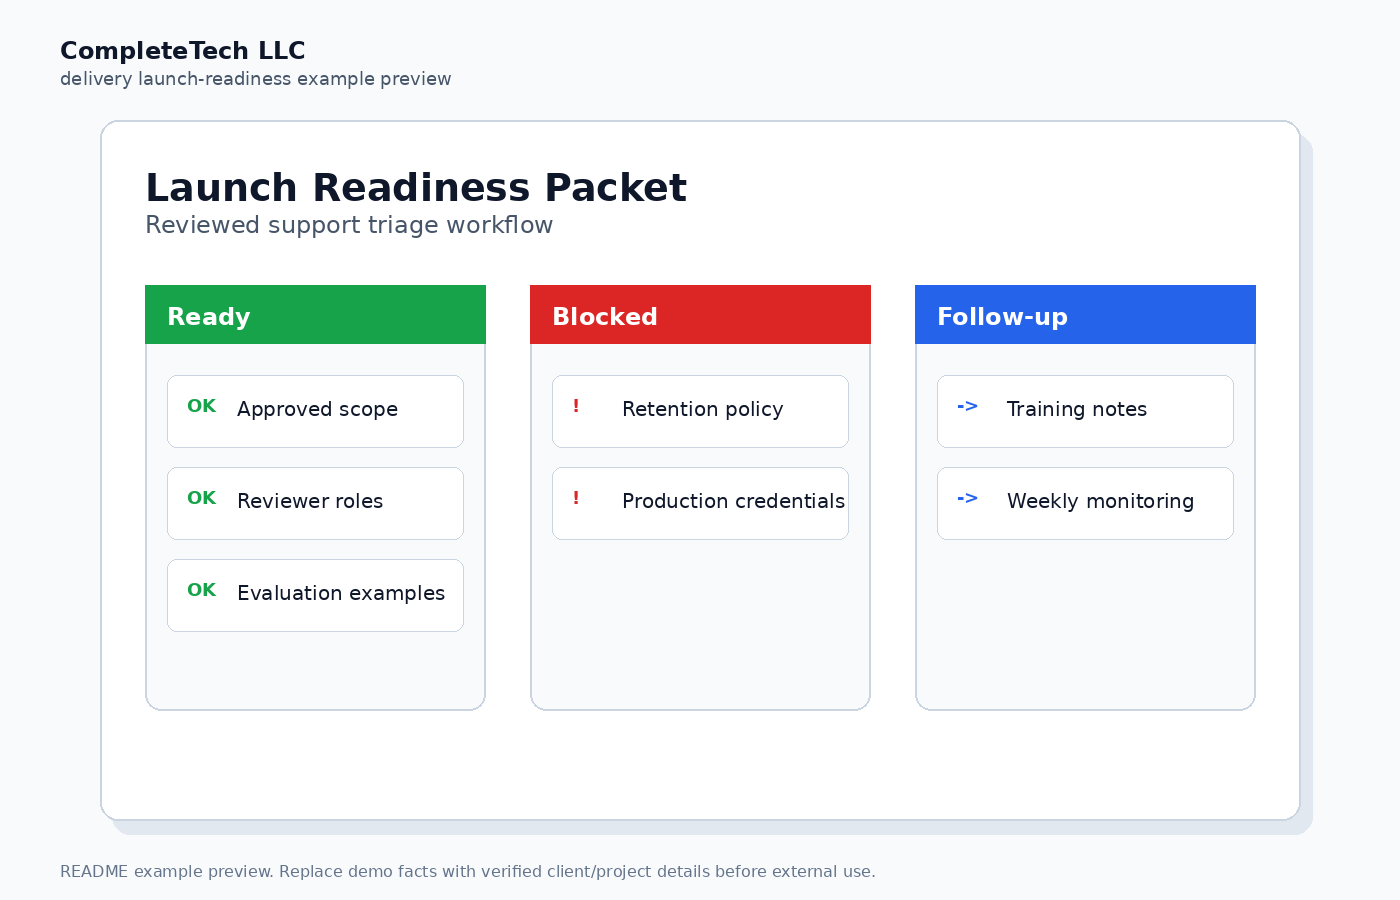
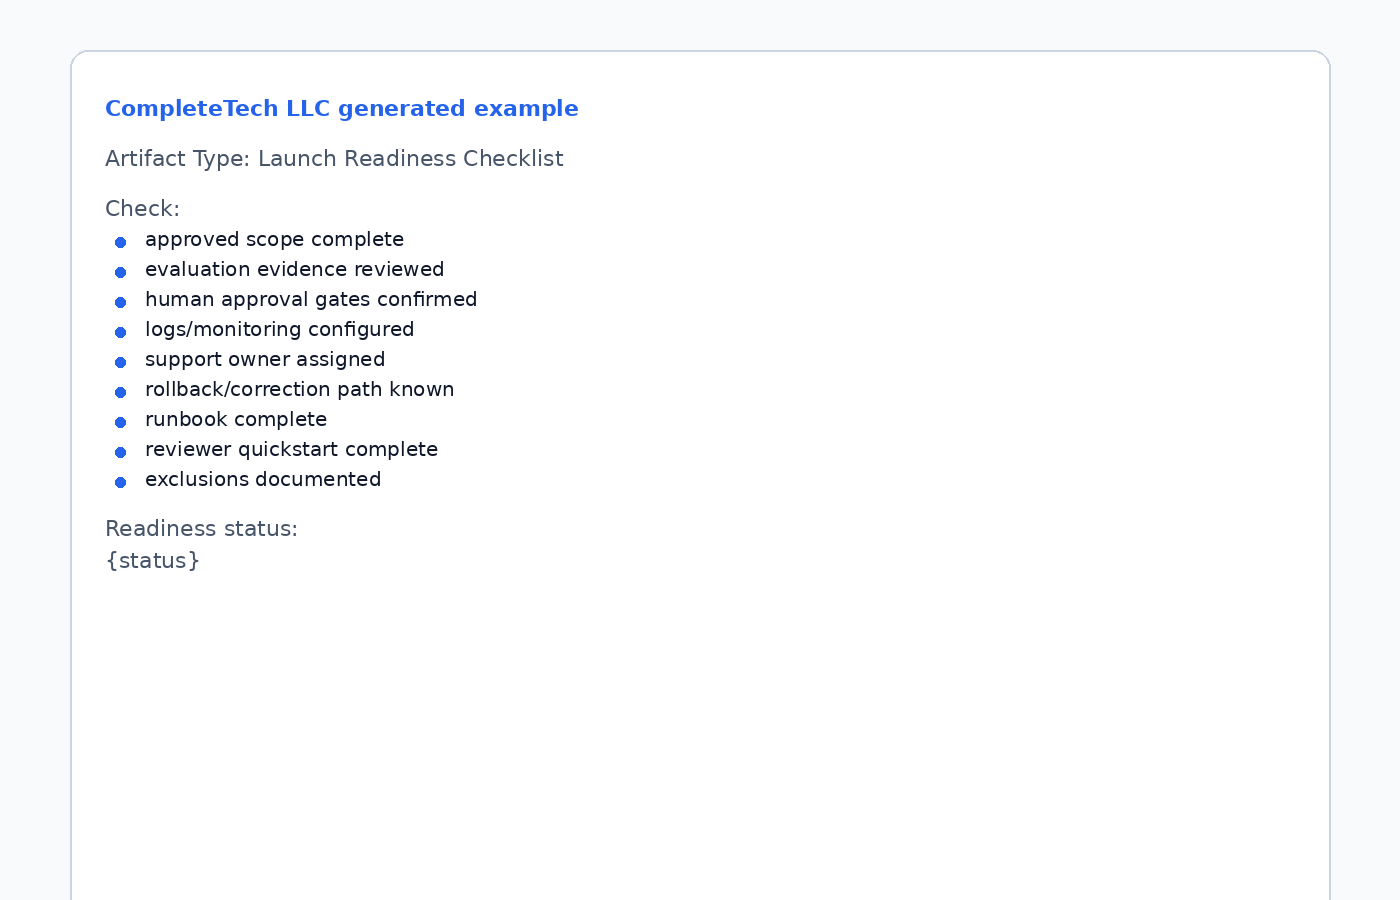
Use generated artifact previews in README

diff --git a/README.md b/README.md
@@ -73,6 +73,8 @@ Rendered artifacts are drafts. Replace placeholders with verified client, scope,
 
 ![Launch readiness packet preview](assets/examples/example.png)
 
+Preview converted from generated artifact: [example.md](assets/examples/example.md).
+
 **Launch readiness packet: Reviewed support triage workflow**
 
 ```bash
@@ -82,7 +84,8 @@ python3 scripts/render_delivery.py \
   --var workflow="support triage agent" \
   --var launch_window="pilot group on June 10" \
   --var approval_gate="support lead approval before customer-facing replies" \
-  --var rollback_owner="CompleteTech delivery lead"
+  --var rollback_owner="CompleteTech delivery lead" \
+  > assets/examples/example.md
 ```
 
 Example packet:

diff --git a/assets/examples/example.md b/assets/examples/example.md
@@ -1,0 +1,15 @@
+Artifact Type: Launch Readiness Checklist
+
+Check:
+- approved scope complete
+- evaluation evidence reviewed
+- human approval gates confirmed
+- logs/monitoring configured
+- support owner assigned
+- rollback/correction path known
+- runbook complete
+- reviewer quickstart complete
+- exclusions documented
+
+Readiness status:
+{status}
